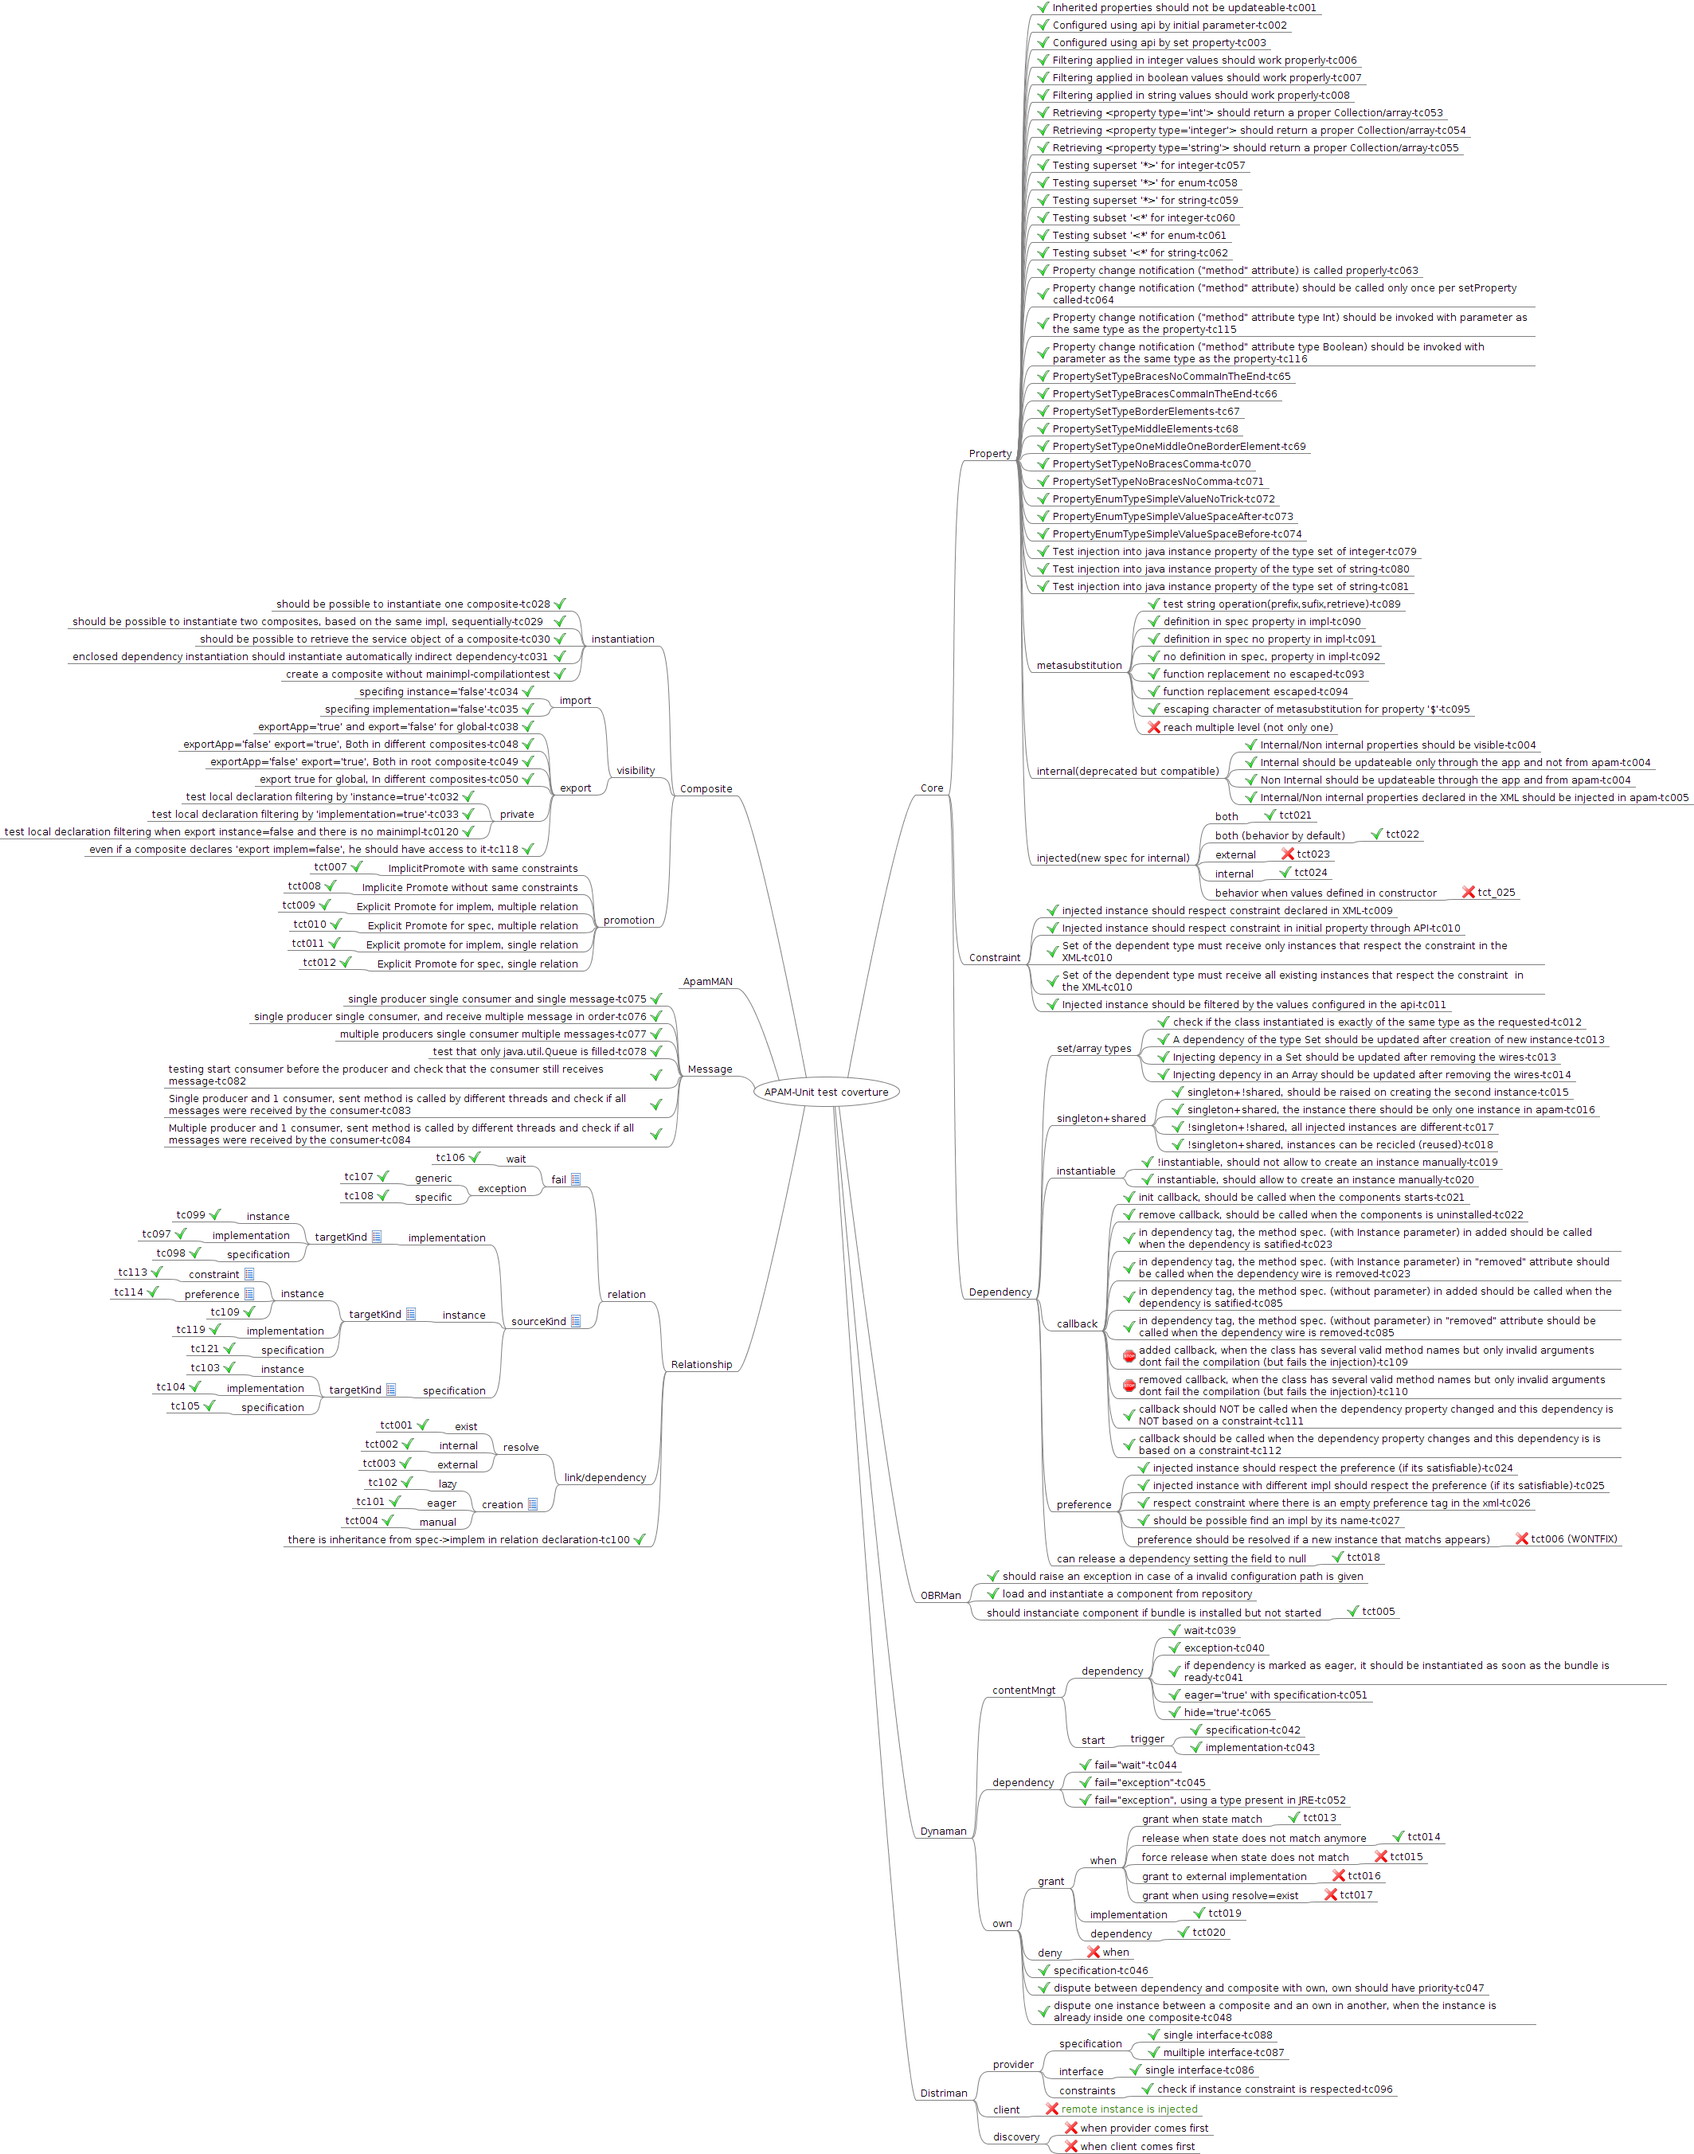
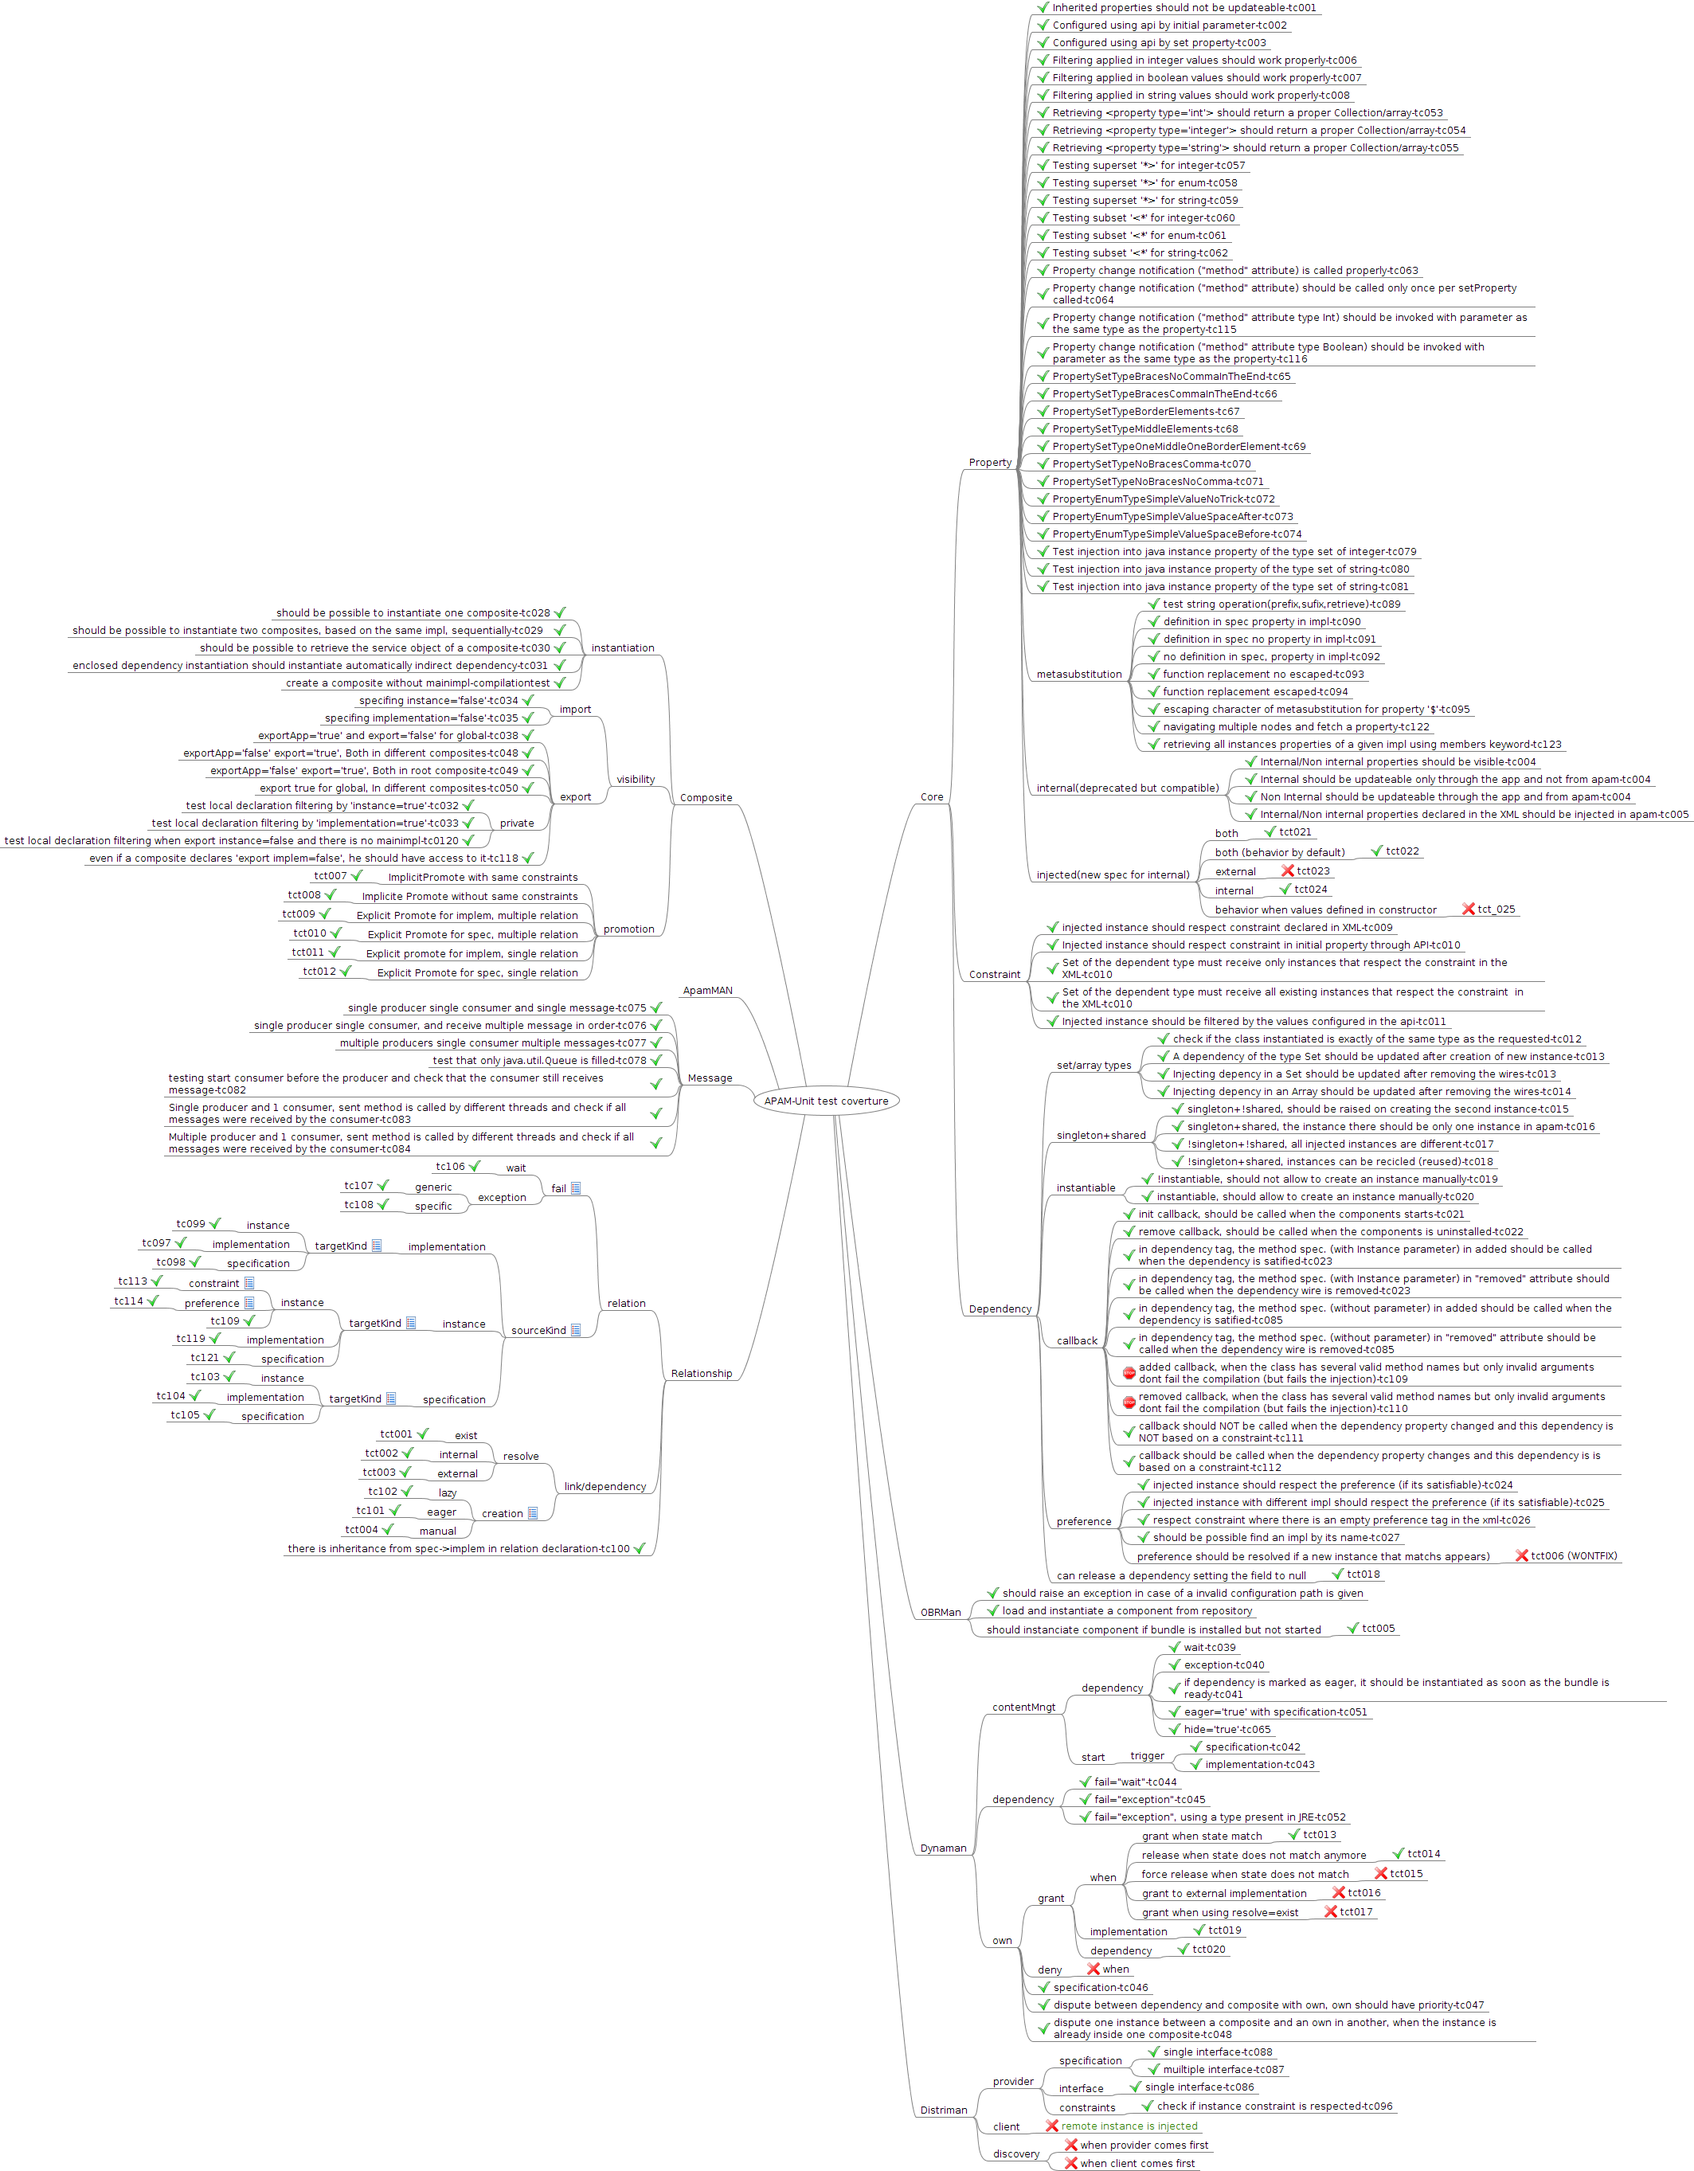
adding tc122,tc123

diff --git a/tests/pax-test/src/test/java/fr/imag/adele/apam/test/testcases/MetaSubstitutionTest.java b/tests/pax-test/src/test/java/fr/imag/adele/apam/test/testcases/MetaSubstitutionTest.java
@@ -17,11 +17,12 @@ package fr.imag.adele.apam.test.testcases;
 import static org.ops4j.pax.exam.CoreOptions.mavenBundle;
 
 import java.util.Collections;
+import java.util.HashMap;
 import java.util.List;
+import java.util.Set;
 
 import junit.framework.Assert;
 
-import org.junit.Ignore;
 import org.junit.Test;
 import org.junit.runner.RunWith;
 import org.ops4j.pax.exam.Option;
@@ -115,6 +116,107 @@ public class MetaSubstitutionTest extends ExtensionAbstract {
 		String message=String.format(templace,subjectA.getProperty("property-case-09"),"$impl-case-09.$property-subject-b");
 		
 		Assert.assertTrue(message,subjectA.getProperty("property-case-09").equals("$impl-case-09.$property-subject-b"));
+		
+	}
+	
+	@Test
+	public void SubstitutionReachingMultipleNodes_tc122() {
+		Implementation subjectAimpl = CST.apamResolver.findImplByName(null,
+				"subject-a");
+		
+		Implementation implementationAlpha=CST.apamResolver.findImplByName(null,
+				"impl-case-12-child");
+		Instance instanceAlpha=implementationAlpha.createInstance(null, new HashMap<String, String>(){{put("property-subject-b", "alpha(child)");}});
+		
+		Implementation implementationBravo=CST.apamResolver.findImplByName(null,
+				"impl-case-12-child");
+		
+		Instance instanceBravo=implementationBravo.createInstance(null, new HashMap<String, String>(){{put("property-subject-b", "bravo(child)");}});
+		
+		Implementation implementationCharlie=CST.apamResolver.findImplByName(null,
+				"impl-case-12");
+		Instance instanceCharlie=implementationCharlie.createInstance(null, new HashMap<String, String>(){{put("property-subject-b", "charlie(parent)");}});
+		
+		Implementation implementationDelta=CST.apamResolver.findImplByName(null,
+				"impl-case-12");
+		Instance instanceDelta=implementationDelta.createInstance(null, new HashMap<String, String>(){{put("property-subject-b", "delta(parent)");}});
+		
+		//Instance of the subject-a (parent)
+		Instance subjectA = subjectAimpl.createInstance(null, null);
+		
+		//Force the field to be injected
+		S6Impl s6parent=(S6Impl)subjectA.getServiceObject();
+		s6parent.getS6();
+
+		//Force the field to be injected
+		Instance middleInstance=auxListInstanceReferencedBy(s6parent.getS6());
+		S6Impl s6middle=(S6Impl)middleInstance.getServiceObject();
+		s6middle.getS6();
+		
+		//Force the field to be injected
+		Instance childInstance=auxListInstanceReferencedBy(s6middle.getS6());
+		S6Impl s6child=(S6Impl)childInstance.getServiceObject();
+		s6child.getS6();
+		
+		auxListProperties("\t", subjectA);
+		
+		Assert.assertTrue(String.format("Substitution did not find the correct value when navigating through multiple nodes (Expecting %s as property, but found %s)",
+				subjectA.getProperty("property-case-12"),childInstance.getProperty("property-subject-b")),
+				subjectA.getProperty("property-case-12").equals(childInstance.getProperty("property-subject-b")));
+		
+	}
+	
+	@Test
+	public void SubstitutionReachingMultipleNodesWithMembersKeyWord_tc123() {
+
+		Implementation subjectAimpl = CST.apamResolver.findImplByName(null,
+				"subject-a");
+		
+		Implementation implementationAlpha=CST.apamResolver.findImplByName(null,
+				"impl-case-12-child");
+		Instance instanceAlpha=implementationAlpha.createInstance(null, new HashMap<String, String>(){{put("property-subject-b", "alpha(child)");}});
+		
+		Implementation implementationBravo=CST.apamResolver.findImplByName(null,
+				"impl-case-12-child");
+		
+		Instance instanceBravo=implementationBravo.createInstance(null, new HashMap<String, String>(){{put("property-subject-b", "bravo(child)");}});
+		
+		Implementation implementationCharlie=CST.apamResolver.findImplByName(null,
+				"impl-case-12");
+		Instance instanceCharlie=implementationCharlie.createInstance(null, new HashMap<String, String>(){{put("property-subject-b", "charlie(parent)");}});
+		
+		Implementation implementationDelta=CST.apamResolver.findImplByName(null,
+				"impl-case-12");
+		Instance instanceDelta=implementationDelta.createInstance(null, new HashMap<String, String>(){{put("property-subject-b", "delta(parent)");}});
+		
+		//Instance of the subject-a (parent)
+		Instance subjectA = subjectAimpl.createInstance(null, null);
+		
+		//Force the field to be injected
+		S6Impl s6parent=(S6Impl)subjectA.getServiceObject();
+		s6parent.getS6();
+
+		//Force the field to be injected
+		Instance middleInstance=auxListInstanceReferencedBy(s6parent.getS6());
+		S6Impl s6middle=(S6Impl)middleInstance.getServiceObject();
+		s6middle.getS6();
+		
+		//Force the field to be injected
+		Instance childInstance=auxListInstanceReferencedBy(s6middle.getS6());
+		S6Impl s6child=(S6Impl)childInstance.getServiceObject();
+		s6child.getS6();
+		
+		auxListProperties("\t", subjectA);
+
+		System.err.println(subjectA.getProperty("property-case-13"));
+		Set<String> properties=(Set<String>)subjectA.getPropertyObject("property-case-13");
+		
+		
+		Assert.assertTrue(String.format("Trying to reach all instance of a given implementation using 'members' keyword in substitution should result two instances but at least one is missing: %s",instanceAlpha.getProperty("property-subject-b")),
+				properties.contains(instanceAlpha.getProperty("property-subject-b") ));
+		
+		Assert.assertTrue(String.format("Trying to reach all instance of a given implementation using 'members' keyword in substitution should result two instances but at least one is missing: %s",instanceBravo.getProperty("property-subject-b")),
+				properties.contains(instanceBravo.getProperty("property-subject-b")));
 		
 	}
 	

diff --git a/documentations/technical/test-coverture/APAM-UnitTest-Coverture-OnFreeMindApp.mm b/documentations/technical/test-coverture/APAM-UnitTest-Coverture-OnFreeMindApp.mm
@@ -121,8 +121,11 @@
 <node CREATED="1365595005815" ID="ID_1423059910" MODIFIED="1365595037123" TEXT="escaping character of metasubstitution for property &apos;$&apos;-tc095">
 <icon BUILTIN="button_ok"/>
 </node>
-<node CREATED="1372336648374" ID="ID_289840574" MODIFIED="1372766385376" TEXT="reach multiple level (not only one)">
-<icon BUILTIN="button_cancel"/>
+<node CREATED="1372336648374" ID="ID_289840574" MODIFIED="1377678300895" TEXT="navigating multiple nodes and fetch a property-tc122">
+<icon BUILTIN="button_ok"/>
+</node>
+<node CREATED="1377678303905" ID="ID_756516455" MODIFIED="1377678332649" TEXT="retrieving all instances properties of a given impl using members keyword-tc123">
+<icon BUILTIN="button_ok"/>
 </node>
 </node>
 <node CREATED="1376388442600" ID="ID_1956479739" MODIFIED="1376388595561" TEXT="internal(deprecated but compatible)">

diff --git a/runtime/core/src/main/java/fr/imag/adele/apam/util/Substitute.java b/runtime/core/src/main/java/fr/imag/adele/apam/util/Substitute.java
@@ -508,7 +508,7 @@ public class Substitute {
 	    try {
 		ret.add(ApamFilter.newInstanceApam(sf, component));
 	    } catch (Exception e) {
-		logger.error("Invalif filter " + sf + " for component "
+		logger.error("Invalid filter " + sf + " for component "
 			+ component.getName());
 	    }
 	}
@@ -533,7 +533,7 @@ public class Substitute {
 	    try {
 		ret.add(ApamFilter.newInstanceApam(sf, component));
 	    } catch (Exception e) {
-		logger.error("Invalif filter " + sf + " for component "
+		logger.error("Invalid filter " + sf + " for component "
 			+ component.getName());
 	    }
 	}
